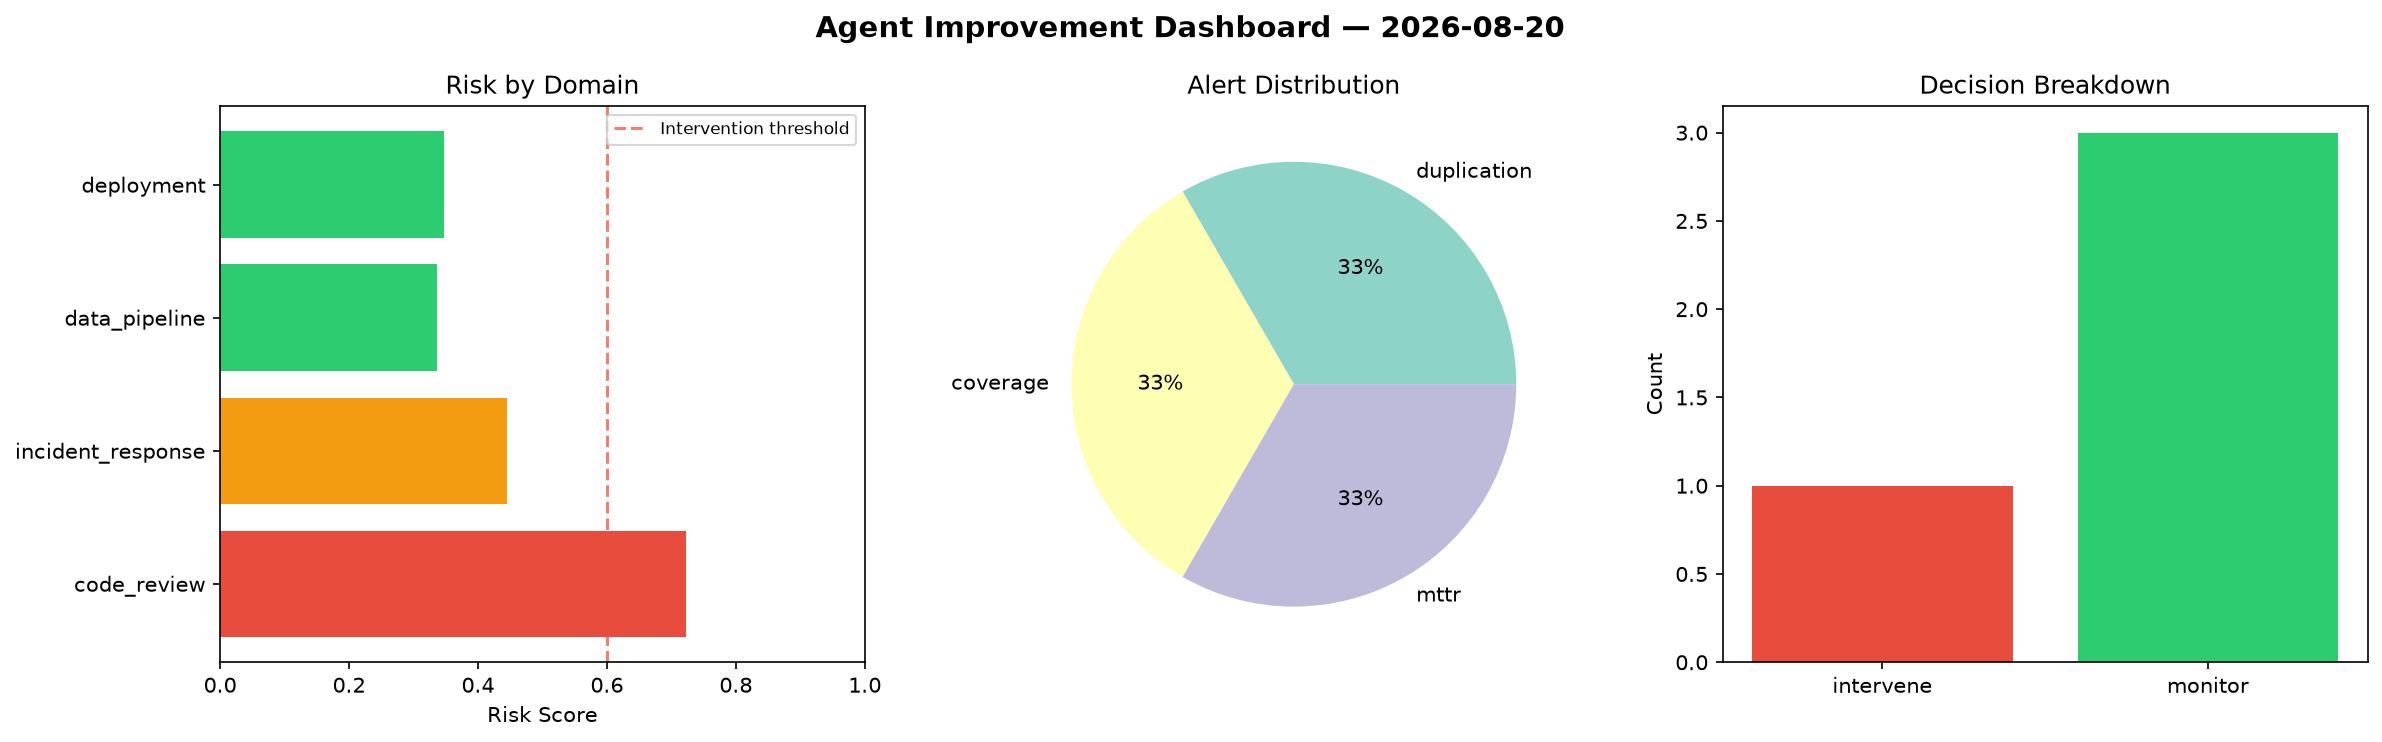
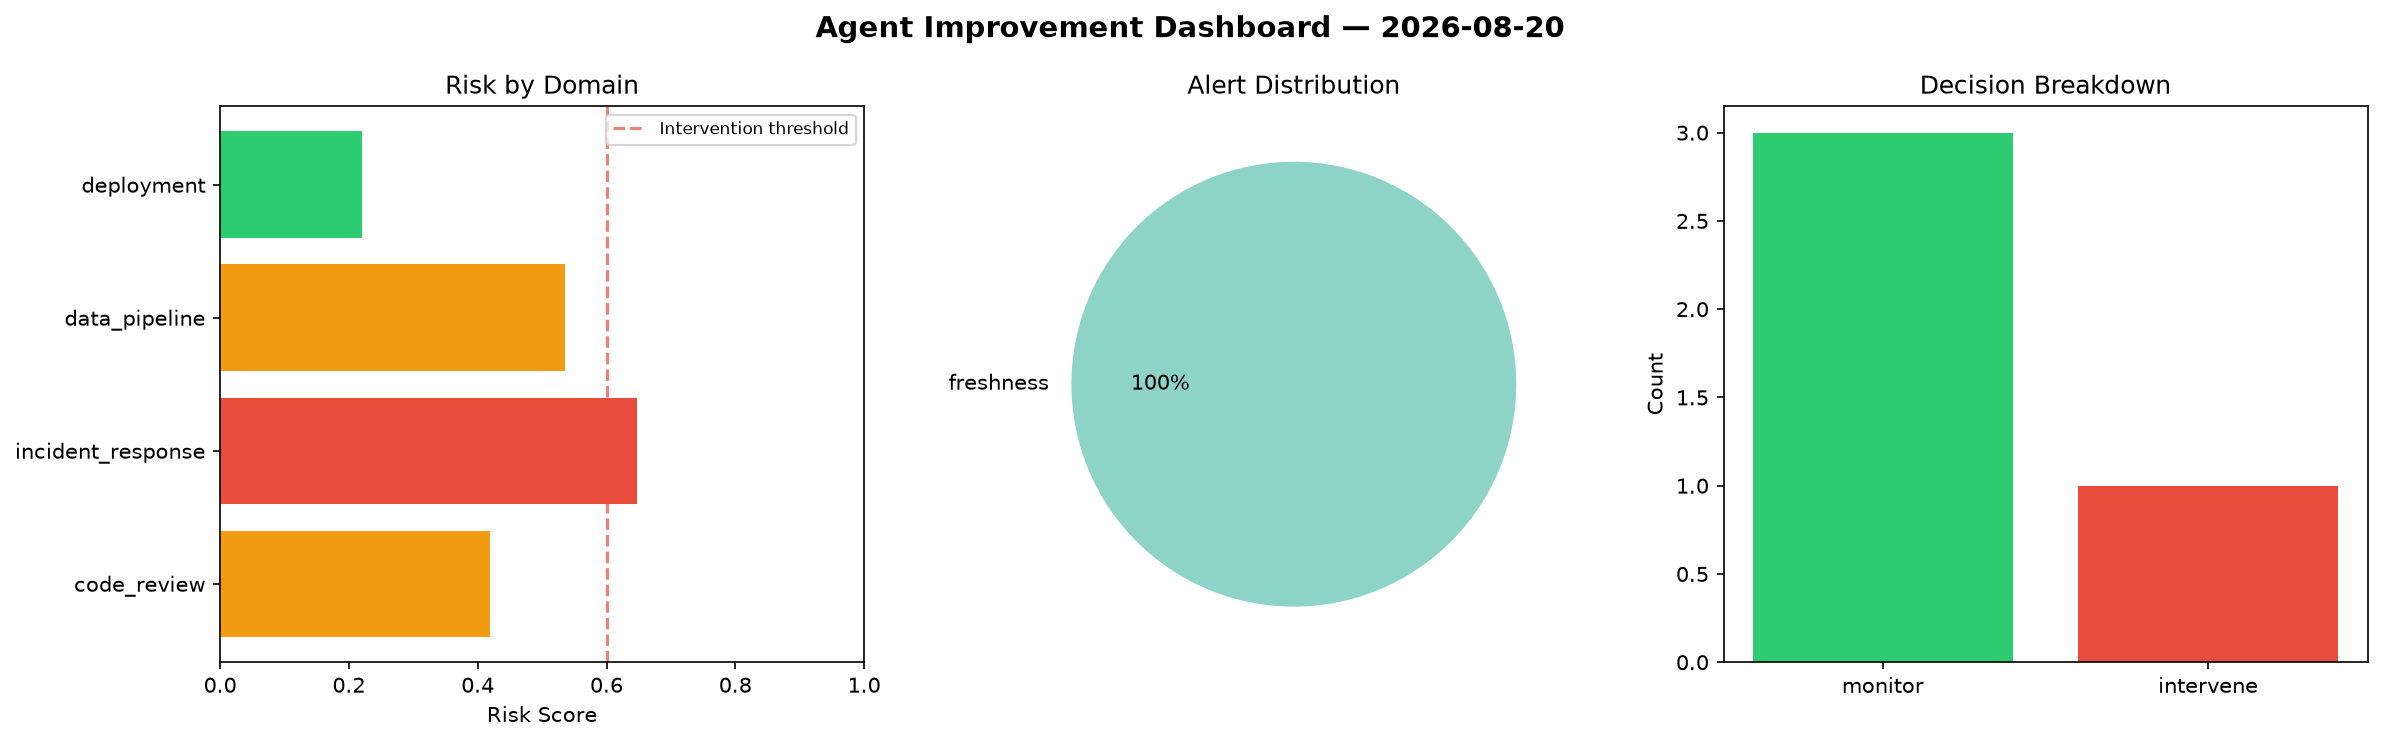
agent-improvement: daily cycle 2026-08-20T20:44

diff --git a/logs/2026-08-20.md b/logs/2026-08-20.md
@@ -1,6 +1,6 @@
 # Agent Improvement Report — 2026-08-20
 
-**Cycle ID:** `cb3aad64` | **Avg Risk:** 0.4628 | **Interventions:** 1/4
+**Cycle ID:** `02a940d8` | **Avg Risk:** 0.4554 | **Interventions:** 1/4
 
 ![Dashboard](2026-08-20_dashboard.png)
 
@@ -10,18 +10,18 @@
 
 | Domain | Risk Score | Decision | Alerts |
 |--------|-----------|----------|--------|
-| code_review | 0.7222 | intervene | duplication, coverage |
-| incident_response | 0.445 | monitor | mttr |
-| data_pipeline | 0.337 | monitor | none |
-| deployment | 0.3472 | monitor | none |
+| code_review | 0.4187 | monitor | none |
+| incident_response | 0.6472 | intervene | none |
+| data_pipeline | 0.5349 | monitor | freshness |
+| deployment | 0.2208 | monitor | none |
 
 ## Delta vs Yesterday
 
 | Domain | Today | Yesterday | Change |
 |--------|-------|-----------|--------|
-| code_review | 0.7222 | 0.423 | 📈 70.7% |
-| incident_response | 0.445 | 0.5918 | 📉 -24.8% |
-| data_pipeline | 0.337 | 0.3709 | 📉 -9.1% |
-| deployment | 0.3472 | 0.5933 | 📉 -41.5% |
+| code_review | 0.4187 | 0.423 | 📉 -1.0% |
+| incident_response | 0.6472 | 0.5918 | 📈 9.4% |
+| data_pipeline | 0.5349 | 0.3709 | 📈 44.2% |
+| deployment | 0.2208 | 0.5933 | 📉 -62.8% |
 
 **Refinement:** `{'adjustment': 'maintain', 'trend': 'improving', 'window': 4}`
